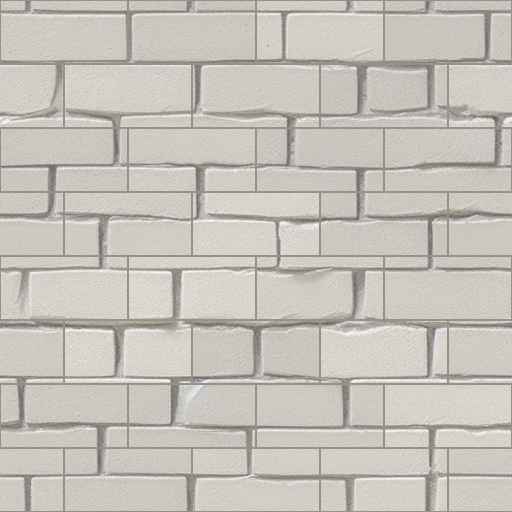
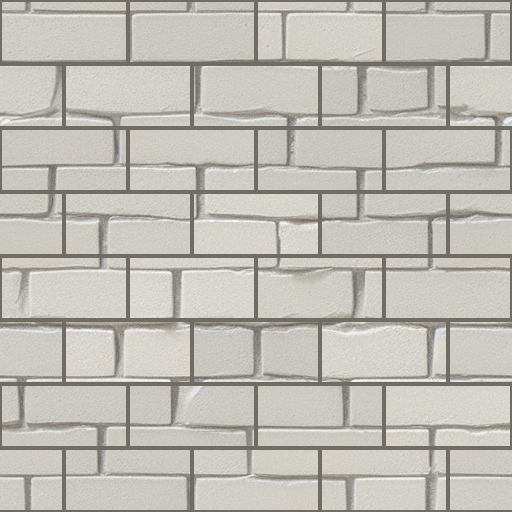
Draw the blockwork's mortar bold enough to read at speed, and filter the art textures anisotropically

Changed region(s): [[0.0, 0.0, 1.0, 1.0]]

diff --git a/tools/art/tiles.py b/tools/art/tiles.py
@@ -85,11 +85,12 @@ def blocks(surface, seed=7):
                 if part[1] > part[0]:
                     box = (part[0], row * high, part[1], (row + 1) * high)
                     out.paste(ImageEnhance.Brightness(out.crop(box)).enhance(shade), box[:2])
-        for x in (shift - 1, shift, shift + wide - 1, shift + wide, shift + 2 * wide - 1, shift + 2 * wide,
-                  shift + 3 * wide - 1, shift + 3 * wide):
-            draw.line([(x % SIZE, row * high), (x % SIZE, (row + 1) * high - 1)], fill=(150, 146, 136))
-        for y in (row * high - 1, row * high):
-            draw.line([(0, y % SIZE), (SIZE, y % SIZE)], fill=(150, 146, 136))
+        # Bold enough to read across the corridor at speed: 4 px is 16 mm at 2 m a texture.
+        for joint in range(4):
+            for x in range(shift + joint * wide - 2, shift + joint * wide + 2):
+                draw.line([(x % SIZE, row * high), (x % SIZE, (row + 1) * high - 1)], fill=(112, 108, 100))
+        for y in range(row * high - 2, row * high + 2):
+            draw.line([(0, y % SIZE), (SIZE, y % SIZE)], fill=(112, 108, 100))
     return out
 
 
